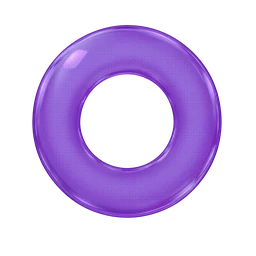
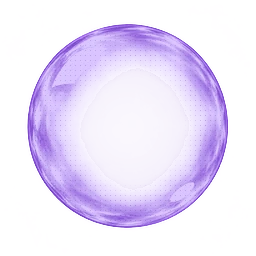
[Feat] Bubble skins v2: spherical art, skins on item / treasure / gold bubbles, shop bubbles; module 0.7.22

diff --git a/js/bubbles.js b/js/bubbles.js
@@ -1,11 +1,11 @@
 /* Skybloom module: bubbles (split from index.html in step 12; code unchanged) */
-import { $, G, ITEMS, L, TREASURES, U, WS, accSrc, islandAt, store, tl, toScreen, toWorld } from './core.js?v=0.7.21';
-import { SFX, vib } from './audio.js?v=0.7.21';
-import { bumpBadge, hud, itemXY, toast } from './ui.js?v=0.7.21';
-import { addGold, gainTreasure, stamp, tutBubble, tutEnd } from './game.js?v=0.7.21';
-import { addFxXY, floatText } from './fx.js?v=0.7.21';
-import { ADD, R, genTextures, hsl, lerpColor, mix3, tex } from './renderer.js?v=0.7.21';
-import * as TM from './telemetry.js?v=0.7.21';
+import { $, G, ITEMS, L, TREASURES, U, WS, accSrc, islandAt, store, tl, toScreen, toWorld } from './core.js?v=0.7.22';
+import { SFX, vib } from './audio.js?v=0.7.22';
+import { bumpBadge, hud, itemXY, toast } from './ui.js?v=0.7.22';
+import { addGold, gainTreasure, stamp, tutBubble, tutEnd } from './game.js?v=0.7.22';
+import { addFxXY, floatText } from './fx.js?v=0.7.22';
+import { ADD, R, genTextures, hsl, lerpColor, mix3, tex } from './renderer.js?v=0.7.22';
+import * as TM from './telemetry.js?v=0.7.22';
 
 /* ---------- bubbles (spec §4) ---------- */
 const BC = L.CONFIG.bubbles;
@@ -17,18 +17,19 @@ export const rollFor = () => {
   return m.kind === 'gold' && U.bubbles.some(b => b.content && b.content.kind === 'gold') ? { kind: 'empty' } : m;
 };
 const BUBBLE_TINT = { item: 0x5fe08a, treasure: 0xffa3d6, gold: 0xffe07a };   // green / pink / yellow, clear = empty
-export function spawnBubble(content = null) {
+export function spawnBubble(content = null, at = null) {
   const side = Math.random(), r = 56 + Math.random() * 18, b = { r, ph: Math.random() * 6, amp: 20 + Math.random() * 20, vy: -(40 + Math.random() * 30), t: 0 };
   const [x0, y0] = toWorld([0, 0]), [x1, y1] = toWorld([1080, 1920]);   // screen edges in world units
   if (side < .35) Object.assign(b, { x: x0 - r, y: 1000 + Math.random() * (y1 - 1000), vx: 30 + Math.random() * 30 });
   else if (side < .7) Object.assign(b, { x: x1 + r, y: 1000 + Math.random() * (y1 - 1000), vx: -(30 + Math.random() * 30) });
   else Object.assign(b, { x: x0 + 70 + Math.random() * (x1 - x0 - 140), y: y1 + r, vx: (Math.random() - .5) * 20 });
+  if (at) Object.assign(b, { x: at[0], y: at[1], vx: (Math.random() - .5) * 30, vy: -(25 + Math.random() * 25) });   // shop preview: appears in view at once
   b.content = content || rollFor(b);
   if (U.screen === 'game' && !U.tut && G.log) { stamp(); L.record(G, { a: 'bspawn', kind: b.content.kind }); }
-  const c = new PIXI.Container(), shell = new PIXI.Sprite(tex('bubble')), glow = new PIXI.Sprite(tex('bubble'));
-  shell.anchor.set(.5); glow.anchor.set(.5); glow.blendMode = ADD(); glow.alpha = 0; shell.width = shell.height = glow.width = glow.height = r * 2;
-  const icon = new PIXI.Sprite(PIXI.Texture.EMPTY); icon.anchor.set(.5); c.addChild(icon, shell, glow);
-  Object.assign(b, { c, shell, glow, icon }); setIcon(b);
+  const c = new PIXI.Container(), shell = new PIXI.Sprite(tex('bubble')), glow = new PIXI.Sprite(tex('bubble')), sk = new PIXI.Sprite(PIXI.Texture.EMPTY);
+  shell.anchor.set(.5); glow.anchor.set(.5); sk.anchor.set(.5); sk.visible = false; glow.blendMode = ADD(); glow.alpha = 0; shell.width = shell.height = glow.width = glow.height = r * 2;
+  const icon = new PIXI.Sprite(PIXI.Texture.EMPTY); icon.anchor.set(.5); c.addChild(icon, shell, sk, glow);
+  Object.assign(b, { c, shell, glow, icon, sk }); setIcon(b);
   R.bubbleLayer.addChild(c); U.bubbles.push(b);
 }
 export function setIcon(b) {
@@ -43,10 +44,11 @@ export function updateBubbles(dt, now, still) {
     const [bx, by] = toScreen([U.tutBubble.sx, U.tutBubble.y]), r = U.tutBubble.r * WS;
     $('coach').style.opacity = bx + r > 140 && bx - r < 940 && by + r > 410 && by - r < 530 ? .3 : '';
   } else if ($('coach').style.opacity) $('coach').style.opacity = '';
-  const max = U.perf ? BC.max : still ? BC.maxReduced : BC.max;
+  const shopOpen = !$('ov-shop').hidden, k15 = shopOpen ? 1.5 : 1;   // shop open: 1.5x as many bubbles drift by, so a skin can be judged at a glance
+  const max = Math.ceil((U.perf ? BC.max : still ? BC.maxReduced : BC.max) * k15);
   if (!U.nextBubble) U.nextBubble = now + 1500;
   if (U.tut && U.screen === 'game') { if (U.tut === 3 && !U.bubbles.includes(U.tutBubble)) tutBubble(); }   // tutorial: only its own bubble
-  else if ((now >= U.nextBubble || U.perf) && U.bubbles.length < max) { spawnBubble(); U.nextBubble = now + (BC.everySec[0] + Math.random() * (BC.everySec[1] - BC.everySec[0])) * 1000; }
+  else if ((now >= U.nextBubble || U.perf) && U.bubbles.length < max) { spawnBubble(); U.nextBubble = now + (BC.everySec[0] + Math.random() * (BC.everySec[1] - BC.everySec[0])) * 1000 / k15; }
   const T = U.tilt, w = U.phaseW, tint = mix3(w, 0xffffff, 0xffd8bc, 0xc8d6ff);
   for (const b of [...U.bubbles]) {
     b.t += dt; b.x += (b.vx + T.x * 110) * dt; b.vx *= Math.pow(.92, dt); b.y += (b.vy + T.y * 45) * dt;   // v0.4: tilt pushes harder
@@ -54,10 +56,16 @@ export function updateBubbles(dt, now, still) {
       const dx = b.x - o.x, dy = b.y - o.y, d = Math.hypot(dx, dy) || 1, min = b.r + o.r; if (d < min) { b.x += dx / d * (min - d) * .5; b.y += dy / d * (min - d) * .5; } }
     const sway = still ? 0 : Math.sin(b.t * 1.3 + b.ph) * b.amp;
     b.sx = b.x + sway; b.c.position.set(b.sx, b.y);
-    const art = b.color ? tex('bubble') : tex(U.skinBubbleArt || 'bubble'); if (b.shell.texture !== art) b.shell.texture = art;   // skin art only on empty bubbles: a coloured one keeps the clear shell so its meaning reads
-    const wob = still ? 0 : Math.sin(b.t * 2.2 + b.ph) * (U.skinWob ?? .025); b.shell.scale.set(b.r * 2 / b.shell.texture.width * (1 + wob), b.r * 2 / b.shell.texture.width * (1 - wob));
-    b.shell.tint = b.color ? lerpColor(b.color, tint, .25) : U.skinCycle && !still ? lerpColor(hsl((now / 40 + b.ph * 60) % 360, .45, .88), tint, .25) : U.skinBubble ? lerpColor(U.skinBubble, tint, .25) : tint;
-    b.glow.tint = b.color || 0xffffff; b.glow.alpha = Math.max(w[2] * .5, b.color ? .3 : 0);   // coloured bubbles glow a little so the colour reads
+    // skin art (empty AND coloured bubbles): the skin sprite `sk` sits on top; a coloured bubble (item / treasure / gold) also keeps its clear shell + glow underneath as the coloured aura
+    const skinTex = U.skinBubbleArt ? tex(U.skinBubbleArt) : null, wob = still ? 0 : Math.sin(b.t * 2.2 + b.ph) * (U.skinWob ?? .025);
+    const sx = b.r * 2 / b.shell.texture.width * (1 + wob), sy = b.r * 2 / b.shell.texture.width * (1 - wob), aura = skinTex && b.color;
+    b.shell.scale.set(sx, sy); b.shell.visible = !skinTex;   // with skin art the old clear shell goes away; a coloured bubble keeps its colour as an aura (glow) + a tint on the skin
+    b.sk.visible = !!skinTex; if (skinTex) { if (b.sk.texture !== skinTex) b.sk.texture = skinTex; b.sk.scale.set(sx, sy); }
+    const spin = U.skinCycle && !still ? hsl((now / 40 + b.ph * 60) % 360, .45, .88) : null;
+    b.sk.tint = spin ? lerpColor(spin, tint, .25) : lerpColor(tint, b.color || 0xffffff, b.color ? .3 : 0);
+    b.shell.tint = b.color ? lerpColor(b.color, tint, .25) : U.skinBubble ? lerpColor(U.skinBubble, tint, .25) : tint;
+    b.glow.scale.set(b.r * 2 / b.glow.texture.width * (aura ? 1.4 : 1));
+    b.glow.tint = b.color || 0xffffff; b.glow.alpha = Math.max(w[2] * .5, b.color ? (aura ? .8 : .3) : 0);   // coloured bubbles glow a little so the colour reads
     if (b.y < toWorld([0, 0])[1] - 160 || b.sx < -260 || b.sx > 1340) removeBubble(b);
   }
 }

diff --git a/js/shop.js b/js/shop.js
@@ -1,12 +1,13 @@
 /* Skybloom module: shop (split from index.html in step 12; code unchanged) */
-import { $, av, CX, CY, IMG, NAMES, NAMES_BASE, NAMES_BY, SET_PRE, TW, U, loadSkinArt, reduce, set_NAMES, store, tl } from './core.js?v=0.7.21';
-import { SFX, vib } from './audio.js?v=0.7.21';
-import { hud, overlay, sheet, toast } from './ui.js?v=0.7.21';
-import { addGold } from './game.js?v=0.7.21';
-import { addFxXY } from './fx.js?v=0.7.21';
-import { R, tex } from './renderer.js?v=0.7.21';
-import { down } from './input.js?v=0.7.21';
-import * as TM from './telemetry.js?v=0.7.21';
+import { $, av, CX, CY, IMG, ITEMS, NAMES, NAMES_BASE, NAMES_BY, SET_PRE, TW, U, loadSkinArt, reduce, set_NAMES, store, tl, toWorld } from './core.js?v=0.7.22';
+import { SFX, vib } from './audio.js?v=0.7.22';
+import { hud, overlay, sheet, toast } from './ui.js?v=0.7.22';
+import { addGold } from './game.js?v=0.7.22';
+import { addFxXY } from './fx.js?v=0.7.22';
+import { spawnBubble } from './bubbles.js?v=0.7.22';
+import { R, tex } from './renderer.js?v=0.7.22';
+import { down } from './input.js?v=0.7.22';
+import * as TM from './telemetry.js?v=0.7.22';
 
 /* ---------- shop (v0.4 §5.2): gold purchases work, cash items are a mock-up; skin art made in phase 8 ---------- */
 const SKINS = {
@@ -103,6 +104,10 @@ $('ov-shop').addEventListener('click', e => {
   } else if (e.target.closest('[data-equip]')) U.shopFx = { id: k.id, kind: 'equip' };
   if (e.target.closest('[data-buy]') || e.target.closest('[data-equip]')) { TM.setting('skin_' + shopTab, U.equip[shopTab], k.id); U.equip[shopTab] = k.id; store.set('equip', U.equip); }
   preview[shopTab] = k.id; openShop(shopTab);
+  if (shopTab === 'bubble') {   // a bubble appears at once in the sky above the garden (clear -> item -> treasure -> ...), so the chosen skin is seen floating, aura included
+    const kinds = [null, { kind: 'item', item: ITEMS[0][0] }, { kind: 'treasure', id: 1, rarity: 'common' }];
+    spawnBubble(kinds[U.shopSpawn = ((U.shopSpawn ?? -1) + 1) % 3] || { kind: 'empty' }, toWorld([140 + Math.random() * 800, 380 + Math.random() * 330]));
+  }
 });
 
 

diff --git a/js/main.js b/js/main.js
@@ -1,17 +1,17 @@
 /* Skybloom module: main (split from index.html in step 12; code unchanged) */
-import { EDITOR, G, L, SHOW, U, applyI18n, loading, prepareImages, reduce, set_G, toScreen, toWorld } from './core.js?v=0.7.21';
-import { SND } from './audio.js?v=0.7.21';
-import { fit, hud, show, toast, transition } from './ui.js?v=0.7.21';
-import { addGold, busy, openAd } from './game.js?v=0.7.21';
-import { MAX_PARTS, addFxXY, partCount } from './fx.js?v=0.7.21';
-import { R, WTL, app, initRenderer } from './renderer.js?v=0.7.21';
-import { bubbleAt, inIsland, popBubbleAt, spawnBubble } from './bubbles.js?v=0.7.21';
-import { badgePos, candidates, enableSensor } from './input.js?v=0.7.21';
-import { applySkins } from './shop.js?v=0.7.21';
-import { cardFile } from './screens.js?v=0.7.21';
-import { startEditor } from './editor.js?v=0.7.21';
-import { bind, boot, loaded } from './telemetry.js?v=0.7.21';
-import { ask } from './age.js?v=0.7.21';
+import { EDITOR, G, L, SHOW, U, applyI18n, loading, prepareImages, reduce, set_G, toScreen, toWorld } from './core.js?v=0.7.22';
+import { SND } from './audio.js?v=0.7.22';
+import { fit, hud, show, toast, transition } from './ui.js?v=0.7.22';
+import { addGold, busy, openAd } from './game.js?v=0.7.22';
+import { MAX_PARTS, addFxXY, partCount } from './fx.js?v=0.7.22';
+import { R, WTL, app, initRenderer } from './renderer.js?v=0.7.22';
+import { bubbleAt, inIsland, popBubbleAt, spawnBubble } from './bubbles.js?v=0.7.22';
+import { badgePos, candidates, enableSensor } from './input.js?v=0.7.22';
+import { applySkins } from './shop.js?v=0.7.22';
+import { cardFile } from './screens.js?v=0.7.22';
+import { startEditor } from './editor.js?v=0.7.22';
+import { bind, boot, loaded } from './telemetry.js?v=0.7.22';
+import { ask } from './age.js?v=0.7.22';
 
 bind({ busy, candidates, bubbleAt, inIsland });   // the play-log recorder (telemetry.js) reads these but never changes them
 

diff --git a/js/input.js b/js/input.js
@@ -1,13 +1,13 @@
 /* Skybloom module: input (split from index.html in step 12; code unchanged) */
-import { $, EDITOR, G, L, MASK, TH, TW, U, artSrc, center, reduce, same, tl, toWorld } from './core.js?v=0.7.21';
-import { SFX, ac, music, musicNodes, vib } from './audio.js?v=0.7.21';
-import { hud, overlay, scale, sheet, show, toast, transition } from './ui.js?v=0.7.21';
-import { busy, cancelAd, checkStuck, doMerge, doPlace, gameOver, isTarget, newGame, onTap, openAd, saveGame, select, tutBlock, useItem } from './game.js?v=0.7.21';
-import { drawn } from './renderer.js?v=0.7.21';
-import { bubbleAt, popBubbleAt } from './bubbles.js?v=0.7.21';
-import { closeShop, openShop } from './shop.js?v=0.7.21';
-import { openCollection, openRanking, openSettings, saveCard, shareCard } from './screens.js?v=0.7.21';
-import * as TM from './telemetry.js?v=0.7.21';
+import { $, EDITOR, G, L, MASK, TH, TW, U, artSrc, center, reduce, same, tl, toWorld } from './core.js?v=0.7.22';
+import { SFX, ac, music, musicNodes, vib } from './audio.js?v=0.7.22';
+import { hud, overlay, scale, sheet, show, toast, transition } from './ui.js?v=0.7.22';
+import { busy, cancelAd, checkStuck, doMerge, doPlace, gameOver, isTarget, newGame, onTap, openAd, saveGame, select, tutBlock, useItem } from './game.js?v=0.7.22';
+import { drawn } from './renderer.js?v=0.7.22';
+import { bubbleAt, popBubbleAt } from './bubbles.js?v=0.7.22';
+import { closeShop, openShop } from './shop.js?v=0.7.22';
+import { openCollection, openRanking, openSettings, saveCard, shareCard } from './screens.js?v=0.7.22';
+import * as TM from './telemetry.js?v=0.7.22';
 
 /* ---------- tilt (spec §6.6) ---------- */
 export function updateTilt(dt) {

diff --git a/js/game.js b/js/game.js
@@ -1,12 +1,12 @@
 /* Skybloom module: game (split from index.html in step 12; code unchanged) */
-import { $, APP_V, DEMO, G, ITEMS, L, NAMES, U, artSrc, center, itemName, reduce, same, set_G, store, tl } from './core.js?v=0.7.21';
-import { SFX, vib } from './audio.js?v=0.7.21';
-import { bumpBadge, hud, overlay, show, toast } from './ui.js?v=0.7.21';
-import { bloomFx, floatText, mergeFx, rewindFx, tierOf, wrapFx } from './fx.js?v=0.7.21';
-import { R, startDrop } from './renderer.js?v=0.7.21';
-import { rollFor, setIcon, spawnBubble } from './bubbles.js?v=0.7.21';
-import { buildCard } from './screens.js?v=0.7.21';
-import * as TM from './telemetry.js?v=0.7.21';
+import { $, APP_V, DEMO, G, ITEMS, L, NAMES, U, artSrc, center, itemName, reduce, same, set_G, store, tl } from './core.js?v=0.7.22';
+import { SFX, vib } from './audio.js?v=0.7.22';
+import { bumpBadge, hud, overlay, show, toast } from './ui.js?v=0.7.22';
+import { bloomFx, floatText, mergeFx, rewindFx, tierOf, wrapFx } from './fx.js?v=0.7.22';
+import { R, startDrop } from './renderer.js?v=0.7.22';
+import { rollFor, setIcon, spawnBubble } from './bubbles.js?v=0.7.22';
+import { buildCard } from './screens.js?v=0.7.22';
+import * as TM from './telemetry.js?v=0.7.22';
 
 /* ---------- game flow ---------- */
 /* play time (ms) only runs while the game is on screen and nothing is open over it; speed mode's timer and the action log use it */

diff --git a/js/screens.js b/js/screens.js
@@ -1,12 +1,12 @@
 /* Skybloom module: screens (split from index.html in step 12; code unchanged) */
-import { $, APP_V, VER, G, IMG, L, NAMES, SET_PRE, TREASURES, U, accSrc, applyI18n, artSrc, bkey, lang, store, tl } from './core.js?v=0.7.21';
-import { music } from './audio.js?v=0.7.21';
-import { fitText, hud, overlay, show, toast, transition } from './ui.js?v=0.7.21';
-import { localDate, newGame, tutStep } from './game.js?v=0.7.21';
-import { app } from './renderer.js?v=0.7.21';
-import { enableSensor, sensorOn } from './input.js?v=0.7.21';
-import * as TM from './telemetry.js?v=0.7.21';
-import { age13 } from './age.js?v=0.7.21';
+import { $, APP_V, VER, G, IMG, L, NAMES, SET_PRE, TREASURES, U, accSrc, applyI18n, artSrc, bkey, lang, store, tl } from './core.js?v=0.7.22';
+import { music } from './audio.js?v=0.7.22';
+import { fitText, hud, overlay, show, toast, transition } from './ui.js?v=0.7.22';
+import { localDate, newGame, tutStep } from './game.js?v=0.7.22';
+import { app } from './renderer.js?v=0.7.22';
+import { enableSensor, sensorOn } from './input.js?v=0.7.22';
+import * as TM from './telemetry.js?v=0.7.22';
+import { age13 } from './age.js?v=0.7.22';
 
 /* ---------- ranking (v0.4 §6.3): no server yet, so only this device's best and an honest empty state ---------- */
 export function openRanking(tab = 'normal') {   // two boards: Normal and Speed mode

diff --git a/js/renderer.js b/js/renderer.js
@@ -1,12 +1,12 @@
 /* Skybloom module: renderer (split from index.html in step 12; code unchanged) */
-import { $, CAL, CX, CY, FALLS, G, GUIDE, HR, IMG, ISLAND, L, MOTION, SHOW, TH, TW, U, WS, ambient, bkey, center, reduce, same } from './core.js?v=0.7.21';
-import { SFX, vib } from './audio.js?v=0.7.21';
-import { busy, finishMerge, paused, speedRing, tickSpeed } from './game.js?v=0.7.21';
-import { addFxXY, floatText, parts, set_floatText } from './fx.js?v=0.7.21';
-import { updateBubbles } from './bubbles.js?v=0.7.21';
-import { updateFx } from './drawfx.js?v=0.7.21';
-import { badgePos, updateTilt } from './input.js?v=0.7.21';
-import { perfGuard } from './perfguard.js?v=0.7.21';
+import { $, CAL, CX, CY, FALLS, G, GUIDE, HR, IMG, ISLAND, L, MOTION, SHOW, TH, TW, U, WS, ambient, bkey, center, reduce, same } from './core.js?v=0.7.22';
+import { SFX, vib } from './audio.js?v=0.7.22';
+import { busy, finishMerge, paused, speedRing, tickSpeed } from './game.js?v=0.7.22';
+import { addFxXY, floatText, parts, set_floatText } from './fx.js?v=0.7.22';
+import { updateBubbles } from './bubbles.js?v=0.7.22';
+import { updateFx } from './drawfx.js?v=0.7.22';
+import { badgePos, updateTilt } from './input.js?v=0.7.22';
+import { perfGuard } from './perfguard.js?v=0.7.22';
 
 /* ======================================================================
    RENDERER (PixiJS v7)

diff --git a/js/telemetry.js b/js/telemetry.js
@@ -3,8 +3,8 @@
    the game rules (logic.js) are untouched — the public rule functions are wrapped from here to see their results.
    Queue = IndexedDB 'skybloom-telemetry'. Export = one zip (events.ndjson + manifest.json + device_contexts.json + snapshots.json).
    Imports only core.js and age.js, so every other module may import this one without a cycle; main.js hands over the few functions it needs (bind). */
-import { $, APP_V, G, L, U, tl, toWorld } from './core.js?v=0.7.21';
-import { age13 } from './age.js?v=0.7.21';   // child mode (under 13, or age not answered yet): nothing is recorded, asked or stored here
+import { $, APP_V, G, L, U, tl, toWorld } from './core.js?v=0.7.22';
+import { age13 } from './age.js?v=0.7.22';   // child mode (under 13, or age not answered yet): nothing is recorded, asked or stored here
 
 const CONSENT_V = 'c1', PROTOCOL_V = 'p1', LSK = 'skybloom.tm.', ITEMS = ['rewind', 'pop', 'drop'];
 const CAP = 20000, LIMIT_MS = +((/[?&]tlimit=(\d+)/.exec(location.search) || [])[1] || 1200000);

diff --git a/js/core.js b/js/core.js
@@ -136,7 +136,7 @@ export const loading = Object.entries(ASSETS).map(([k, f]) => load(k, `assets/${
 for (let lv = 1; lv <= 17; lv++) loading.push(load('b' + lv, artSrc(lv)));
 for (let i = 1; i <= 12; i++) loading.push(load('acc' + i, accSrc(i)));
 export let MOTION = {};
-for (const lg of ['en', 'ko']) loading.push(fetch(`i18n/${lg}.json?v=0.7.21`).then(r => r.json()).then(j => { I18N[lg] = j; }).catch(() => {}));
+for (const lg of ['en', 'ko']) loading.push(fetch(`i18n/${lg}.json?v=0.7.22`).then(r => r.json()).then(j => { I18N[lg] = j; }).catch(() => {}));
 loading.push(fetch('motion_map.json').then(r => r.json()).then(j => { MOTION = j.buildings || {}; window.__motionDoc = j; }).catch(() => { /* no building motion */ }));
 
 function trimCanvas(im) {   // crop transparent margins (windmill body is exported on its full canvas)

diff --git a/js/age.js b/js/age.js
@@ -3,7 +3,7 @@
    Only the group is kept, on this device: 'u13' (under 13), 't13' (13-17), 'a18' (18+). An older build stored '13p' (13+): still read as 13+.
    Until it is answered, and for 'u13', the game runs in child mode: no play-log recording, no survey, no tester consent
    (telemetry.js checks age13()); the ad step reads bracket() to ask for child-directed ads (u13) and under-age-of-consent ads (t13). Imports only core.js. */
-import { $, store, tl } from './core.js?v=0.7.21';
+import { $, store, tl } from './core.js?v=0.7.22';
 
 const KEY = 'age', GATE_V = 'a2', GROUPS = ['u13', 't13', 'a18'];
 let mem = null;   // this page's answer too, so a browser that refuses storage still keeps it until reload

diff --git a/js/drawfx.js b/js/drawfx.js
@@ -1,8 +1,8 @@
 /* Skybloom module: drawfx (split from index.html in step 12; code unchanged) */
-import { CX, CY, U, reduce } from './core.js?v=0.7.21';
-import { SFX } from './audio.js?v=0.7.21';
-import { freeParts, parts } from './fx.js?v=0.7.21';
-import { ADD, R, ease, genTextures } from './renderer.js?v=0.7.21';
+import { CX, CY, U, reduce } from './core.js?v=0.7.22';
+import { SFX } from './audio.js?v=0.7.22';
+import { freeParts, parts } from './fx.js?v=0.7.22';
+import { ADD, R, ease, genTextures } from './renderer.js?v=0.7.22';
 
 /* ---------- effects drawing ---------- */
 const ring = (g, x, y, R0, w, col, a) => { if (a > .01 && R0 > 1) g.lineStyle(w, col, a).drawEllipse(x, y, R0, R0 * .5); };

diff --git a/js/perfguard.js b/js/perfguard.js
@@ -1,7 +1,7 @@
-import { $, U, ambient, store, tl } from './core.js?v=0.7.21';
-import { toast } from './ui.js?v=0.7.21';
-import * as TM from './telemetry.js?v=0.7.21';
-import { createDecider } from './perfdecide.js?v=0.7.21';
+import { $, U, ambient, store, tl } from './core.js?v=0.7.22';
+import { toast } from './ui.js?v=0.7.22';
+import * as TM from './telemetry.js?v=0.7.22';
+import { createDecider } from './perfdecide.js?v=0.7.22';
 
 /* ======================================================================
    PERF GUARD: background motion is the first thing to go on a slow phone. When perfdecide says the game is too slow,
